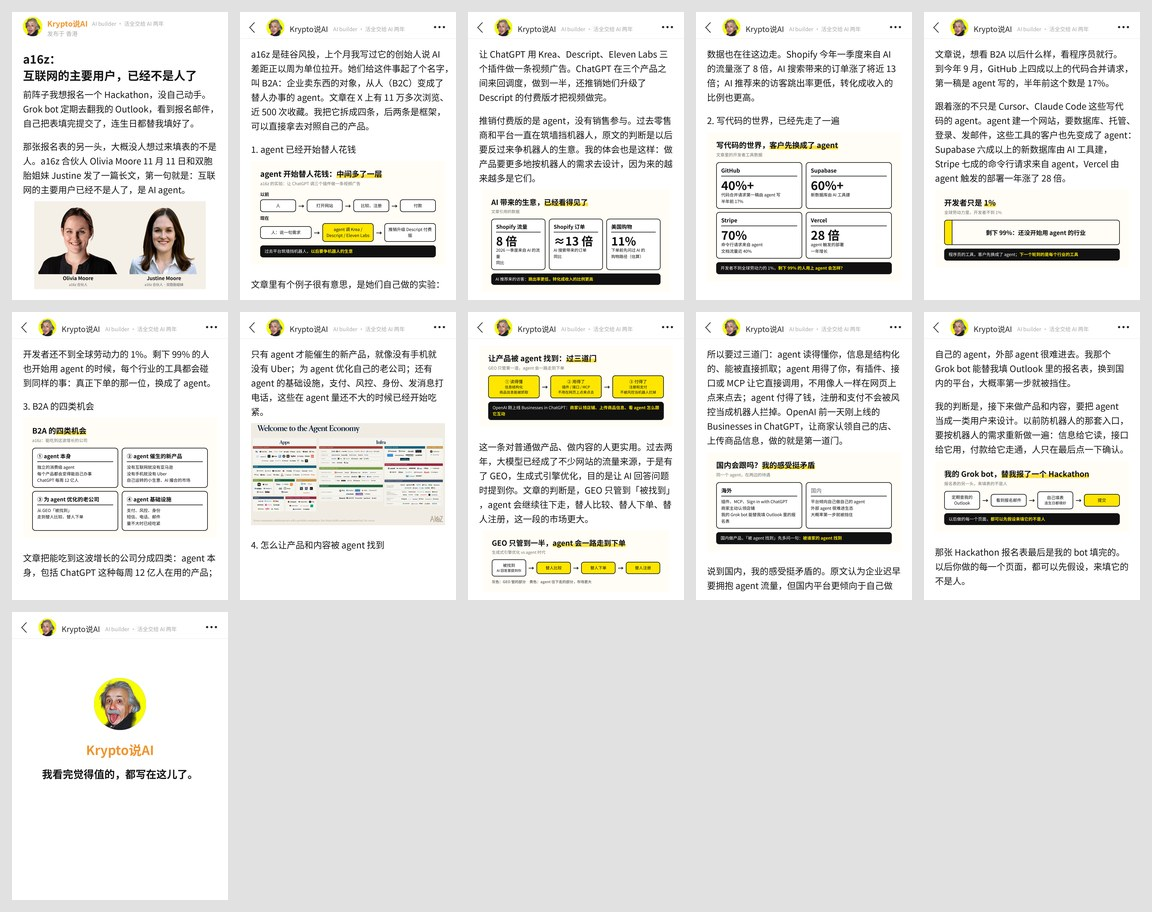
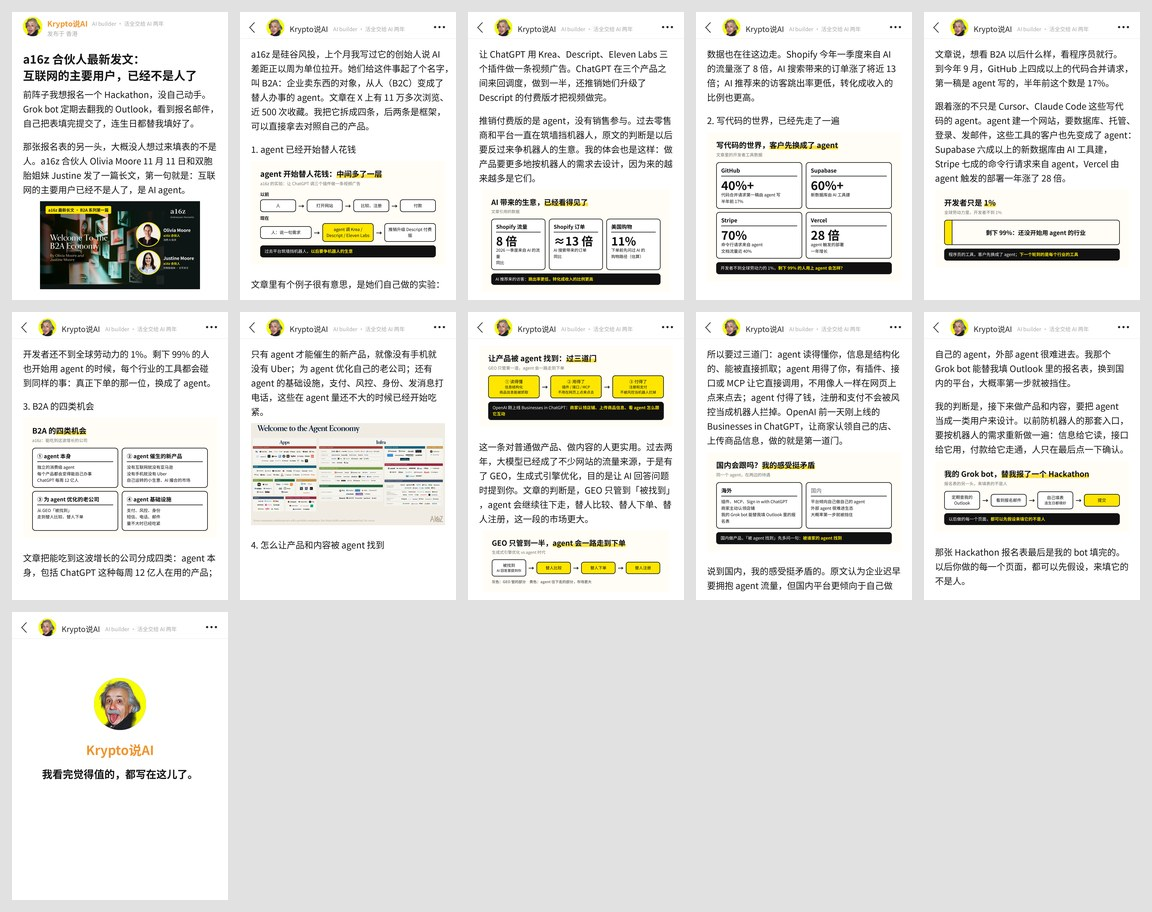
a16z B2A 稿：首页标题和首图突出 a16z
Claude-Session: https://claude.ai/code/session_01NaeRTaNK7GFJasw3XzAhi3

Changed region(s): [[0.0312, 0.2149, 0.1875, 0.3377], [0.0312, 0.0614, 0.125, 0.0921]]

diff --git a/发布/2026-11-12_a16z-b2a-economy/meme-v2版/编辑用/hero_a16z.html b/发布/2026-11-12_a16z-b2a-economy/meme-v2版/编辑用/hero_a16z.html
@@ -1,0 +1,20 @@
+<html><head><meta charset="utf-8"><style>
+body{margin:0;width:1600px;height:880px;font-family:"Noto Sans CJK SC",sans-serif;overflow:hidden}
+.w{position:relative;width:1600px;height:880px;background:#0e1615 url(cover.png) -60px 100px/1300px auto no-repeat}
+.w:after{content:"";position:absolute;inset:0;background:linear-gradient(90deg,rgba(0,0,0,0) 0%,rgba(0,0,0,.1) 48%,rgba(14,22,21,.92) 64%)}
+.tag{position:absolute;z-index:2;left:56px;top:48px;background:#FFE600;color:#111;font-weight:900;font-size:40px;padding:10px 26px;border-radius:12px}
+.brand{position:absolute;z-index:2;right:60px;top:50px;color:#fff;font-weight:900;font-size:64px;letter-spacing:2px;font-family:"Noto Serif CJK SC",serif}
+.brand small{display:block;font-size:22px;font-weight:400;letter-spacing:1px;color:#ddd;text-align:right;font-family:"Noto Sans CJK SC",sans-serif}
+.ppl{position:absolute;z-index:2;right:40px;top:210px;width:600px;display:flex;flex-direction:column;gap:34px}
+.p{display:flex;align-items:center;gap:28px}
+.av{width:230px;height:230px;border-radius:50%;background:#f3efe6 center/cover;border:8px solid #FFE600;flex:none}
+.n{color:#fff;font-size:44px;font-weight:900;line-height:1.15}
+.r{color:#FFE600;font-size:30px;font-weight:700;margin-top:6px}
+.d{color:#ddd;font-size:24px;margin-top:4px}
+</style></head><body><div class="w">
+<div class="tag">a16z 最新长文 · B2A 系列第一篇</div>
+<div class="brand">a16z<small>Andreessen Horowitz</small></div>
+<div class="ppl">
+<div class="p"><div class="av" style="background-image:url(Olivia_Moore.png)"></div><div><div class="n">Olivia Moore</div><div class="r">a16z 合伙人</div><div class="d">消费 AI 投资</div></div></div>
+<div class="p"><div class="av" style="background-image:url(Justine_Moore.png)"></div><div><div class="n">Justine Moore</div><div class="r">a16z 合伙人</div><div class="d">双胞胎姐妹 · 合写本文</div></div></div>
+</div></div></body></html>

diff --git a/发布/2026-11-12_a16z-b2a-economy/meme-v2版/编辑用/shot_hero.js b/发布/2026-11-12_a16z-b2a-economy/meme-v2版/编辑用/shot_hero.js
@@ -1,0 +1,4 @@
+const { chromium } = require('playwright');
+(async()=>{const b=await chromium.launch();const p=await b.newPage({viewport:{width:1600,height:880}});
+await p.goto('file://'+require('path').resolve('hero_a16z.html'));await p.waitForTimeout(500);
+await p.screenshot({path:'hero_a16z.jpg',quality:92,type:'jpeg'});await b.close();})();

diff --git a/CLAUDE.md b/CLAUDE.md
@@ -3,7 +3,7 @@
 这个仓库是小红书账号 **Krypto说AI** 的工作区，也是它的记忆。在这里做的每一篇稿子，先读本页，再读 `账号/档案.md`、`账号/经历库.md` 和 `账号/爆文方法论.md`（10-14 起，选题 / 标题 / 首图 / 原文跟发的发前清单，交付时逐条写过没过）。每次用户说了新的经历、新的观点、新的规则，写回这两份文件并更新本页摘要，不要只留在对话里。
 
 ## 摘要
-- **11-12 a16z《Welcome to the B2A Economy》稿（meme-v2，观察，value 框架，立场 D 默认，goal 流量，`发布/2026-11-12_a16z-b2a-economy/meme-v2版/`，10 页 + 名片卡，待用户看）**：素材是用户发来的 Olivia Moore（a16z 合伙人，和双胞胎 Justine 合写）11-11 X 长文打包（全文 + 封面 + 赛道图 + 头像；头像是 AI 生成图带「can of soup」水印、不是本人，没用）。先问走了，用户答：Grok bot 定期查 Outlook、看报名信息、自动提交 Hackathon 报名表（经历库 #29 补）；认同「以前防机器人，以后要 tailor 机器人的需求」；价值选框架（B2A 四类机会 + 怎么被 agent 找到）；国内「挺矛盾」，不一定跟，平台倾向自己做自己的 agent（观点库 #36）；立场和代价没答，默认 D、cost 无。起法是自己的一个场景（bot 替我填 Hackathon 报名表，连生日都填了），跟上一篇 Lenny（反常事实）不同，首尾回扣「来填表的不是人」。四点：agent 开始替人花钱（ChatGPT 调三插件、推销 Descript 付费版，`flow.png`、`shopify.png`）/ 写代码的世界先走了一遍（GitHub 40% vs 17%、Supabase / Stripe / Vercel，`code.png`、`pct.png` 1% vs 99%）/ B2A 四类机会（`four.png` + 原文赛道图）/ 怎么被 agent 找到：读得懂、用得了、付得了三道门（`found.png`、`geo.png`）+ 国内矛盾（`cn.png`）→ 判断 → `bot.png` 回扣。hero 是原文封面 `cover.png`；回指 10-23 a16z 差距稿。每页有图。check 0 ✗ 9 ⚠（专名 / 数字密度是数据框架稿常态，1069 字偏短）；check_paste 的「a16z 开头判英文句子」✗ 是旧规则。标题「a16z：互联网的主要用户已不是人」（16 字），备选「a16z：你的下一个顾客可能不是人」「强烈推荐看看a16z这篇B2A长文。」。提醒过用户：AI 框架稿历史上出不了粉丝池，goal 标流量。**用户 11-12 定：首图尽可能用真人头像或带真人的素材照片，流量更高** → 从 a16z 作者页拿到两人官方头像（`Olivia_Moore.png` `Justine_Moore.png`，透明底 1024），拼成米色底双人 hero `twins.jpg`（名字 + 「a16z 合伙人 · 双胞胎姐妹」，`hero_max: 440` 保证在第 1 页），原文封面 `cover.png` 不再用；备选加「a16z合伙人：别再防机器人了」「a16z：AI开始替你花钱了」「a16z：我的报名表是AI替我填的」。以后素材里没有真人照时，先去作者 / 机构官网找官方头像
+- **11-12 a16z《Welcome to the B2A Economy》稿（meme-v2，观察，value 框架，立场 D 默认，goal 流量，`发布/2026-11-12_a16z-b2a-economy/meme-v2版/`，10 页 + 名片卡，待用户看）**：素材是用户发来的 Olivia Moore（a16z 合伙人，和双胞胎 Justine 合写）11-11 X 长文打包（全文 + 封面 + 赛道图 + 头像；头像是 AI 生成图带「can of soup」水印、不是本人，没用）。先问走了，用户答：Grok bot 定期查 Outlook、看报名信息、自动提交 Hackathon 报名表（经历库 #29 补）；认同「以前防机器人，以后要 tailor 机器人的需求」；价值选框架（B2A 四类机会 + 怎么被 agent 找到）；国内「挺矛盾」，不一定跟，平台倾向自己做自己的 agent（观点库 #36）；立场和代价没答，默认 D、cost 无。起法是自己的一个场景（bot 替我填 Hackathon 报名表，连生日都填了），跟上一篇 Lenny（反常事实）不同，首尾回扣「来填表的不是人」。四点：agent 开始替人花钱（ChatGPT 调三插件、推销 Descript 付费版，`flow.png`、`shopify.png`）/ 写代码的世界先走了一遍（GitHub 40% vs 17%、Supabase / Stripe / Vercel，`code.png`、`pct.png` 1% vs 99%）/ B2A 四类机会（`four.png` + 原文赛道图）/ 怎么被 agent 找到：读得懂、用得了、付得了三道门（`found.png`、`geo.png`）+ 国内矛盾（`cn.png`）→ 判断 → `bot.png` 回扣。hero 是原文封面 `cover.png`；回指 10-23 a16z 差距稿。每页有图。check 0 ✗ 9 ⚠（专名 / 数字密度是数据框架稿常态，1069 字偏短）；check_paste 的「a16z 开头判英文句子」✗ 是旧规则。标题「a16z：互联网的主要用户已不是人」（16 字），备选「a16z：你的下一个顾客可能不是人」「强烈推荐看看a16z这篇B2A长文。」。提醒过用户：AI 框架稿历史上出不了粉丝池，goal 标流量。**用户 11-12 定：首图尽可能用真人头像或带真人的素材照片，流量更高** → 从 a16z 作者页拿到两人官方头像（`Olivia_Moore.png` `Justine_Moore.png`，透明底 1024），拼成米色底双人 hero `twins.jpg`（名字 + 「a16z 合伙人 · 双胞胎姐妹」，`hero_max: 440` 保证在第 1 页），原文封面 `cover.png` 不再用；备选加「a16z合伙人：别再防机器人了」「a16z：AI开始替你花钱了」「a16z：我的报名表是AI替我填的」。以后素材里没有真人照时，先去作者 / 机构官网找官方头像。**用户 11-12 再改：首页标题和照片要更突出 a16z** → headline 改「a16z 合伙人最新发文：｜互联网的主要用户，已经不是人了」（第一行不再只有「a16z：」）；标题改「a16z合伙人：互联网主要用户已不是人」（19 字）；hero 换成 `hero_a16z.jpg`（`hero_a16z.html` + `shot_hero.js` 截图）：原文封面「Welcome To The B2A Economy」当底、右侧两人圆形头像黄圈 + 「a16z 合伙人」、右上 a16z / Andreessen Horowitz 字标、左上黄签「a16z 最新长文 · B2A 系列第一篇」，`twins.jpg` 纯大头照不用。以后人物 hero 不放纯大头贴，要带上机构 / 原文元素
 - **11-11 Lenny《State of the tech job market: late 2026》稿（meme-v2，观察，value 信息 + 框架，立场 D 默认，goal 流量，`发布/2026-11-11_lenny-job-market/meme-v2版/`，13 页 + 名片卡，待用户看）**：素材是用户发来的 Lenny 11-10 就业报告免费部分 + 21 张图表（第七条在付费墙后，没写内容只提一句）。先问走了，用户答：用户研究和前端少了很多、QA 整个团队已经没了；产品经理更难招是确定的，考核范围更大、难度更高（经历库 #43）；价值信息 + 框架；主线选 C「AI 把专项岗位合并成一个人管更宽」配合 FDE 增长；立场和代价没答，默认 D、cost 无（观点库 #35）。起法是反常事实（前端少一半、FDE 涨 4.6 倍），跟上一篇（自己工作里的事）不同，第二段接「我们团队也一样」。四点：只管一段的工程岗在缩（chart_10、chart_9）/ 设计和用研跌得更厉害（`design.png`）/ 产品经理岗位 4 年最多但更难招（`pm.png`、chart_6）/ 招聘要求里 LLM 和 Claude 排前面（chart_14、chart_16）+ 回指 10 月 Anthropic 就业报告的面试题（#26）→ `merge.png` 一段工序 → 一整件事 → 判断 → 结尾问「交出去的是一段工序还是一整件事」+ `ask.png`。hero 是自绘中文柱图 `hero.png`（FDE +361% vs 前端 −51%），每页有图。check 0 ✗ 11 ⚠（数字 / 专名密度是数据报告稿常态，1189 字差 11）。标题「硅谷就业报告：前端砍半，FDE涨4.6倍」（20 字），备选「强烈推荐看看硅谷这份就业报告。」「我们的QA团队，已经整个没了」。注意跟 11-09 Tulsee「产品经理又值钱了」同题材，两篇别连着发。**用户 11-11 改：标题和正文都要带 Lenny（英文圈网红，名字本身是钩子），他的名字和报告封面挪到第一页、跟第二页的图对调** → 标题「Lenny：前端砍半，FDE涨4.6倍」（19 字，keyword Lenny），headline「Lenny就业报告：｜前端砍半，FDE涨4.6倍」，首页 = 反常事实 + Lenny 介绍（英文圈做产品的人里很有名、第五份就业报告）+ `cover.png`，自绘 `hero.png` 挪到第 2 页；第 1 点里 chart_10 / chart_9 前移、新加 `team.png`（我们团队用研 / 前端少了很多、QA 没了）补无图页；备选「强烈推荐看看Lenny这份就业报告。」「Lenny就业报告：我们的QA团队没了」；正文.txt 第一段和标签带 Lenny。改前存 `draft_v1_硅谷标题_自绘首图.md`
 - **11-10 名片卡默认句换成「我看完觉得值的，都写在这儿了。」（用户定）**：`render_meme.py` 的 CARD 默认值、meme-xhs SKILL、爆文方法论同步。过程：三轮「关注我，＋承诺」的建议（替你读完 / 每周长一点见识 / 好东西我先替你看等）都被退，用户原话「太官方了，不太接地气」「看一下素材库里面的口气，要做到那种风格」；对标库里小盖、MemeInformation 都不写「关注我」，口气是一句平常话加句号、说自己做了什么。以后给这个号写口号、简介、CTA 先按这个口气出。视频封面 `cover.py` 的 slogan 行（「AI builder · 带你拉开和身边人的差距」）没动，待用户定。已出未发的稿末页还是旧句，要换得重出末页
 - **11-10 四关写进方法论和 meme skills（用户定「把这四关写进爆文方法论和 meme skills」）**：`账号/爆文方法论.md` 新增第六节「四关」（① 出粉丝池：粉丝点击率不低于整体 ② 路人点进来：点击率 18% ③ 被继续推：停留 40 秒、评论两位数 ④ 关注：每千次观看涨粉 3；哪关没过改哪关），第五节的 48 小时检验换成「2 小时看粉丝点击率 + 48 小时看四个数」，发前清单补第 9 条。meme-v2 SKILL：步骤 2 定骨架前先写「李录和心流带来的读者为什么会点这篇」、写不出来就告诉用户；front matter 加 `goal: 涨粉 / 流量`；步骤 6 荐读体只在名字本身是钩子时当主标题、标题或正文第一段带全名 / 书名；步骤 7 交付写四关三行（粉丝为什么点、接续动作、发布后看什么）；新增「四关」节；changelog 记了。meme-xhs SKILL 同步（顶部 11-10 段 + 交付汇报加一条）。check.py / meme_check 没有 `goal` 报 ⚠。全是选题、交付、检验层，没加写法规则。**仍待用户定**：主线比例（长内容精读每周五篇以上、AI 工具稿每周最多一篇或放公众号 / 推特）、名片卡 CTA、Kotler 原文精读接续稿
